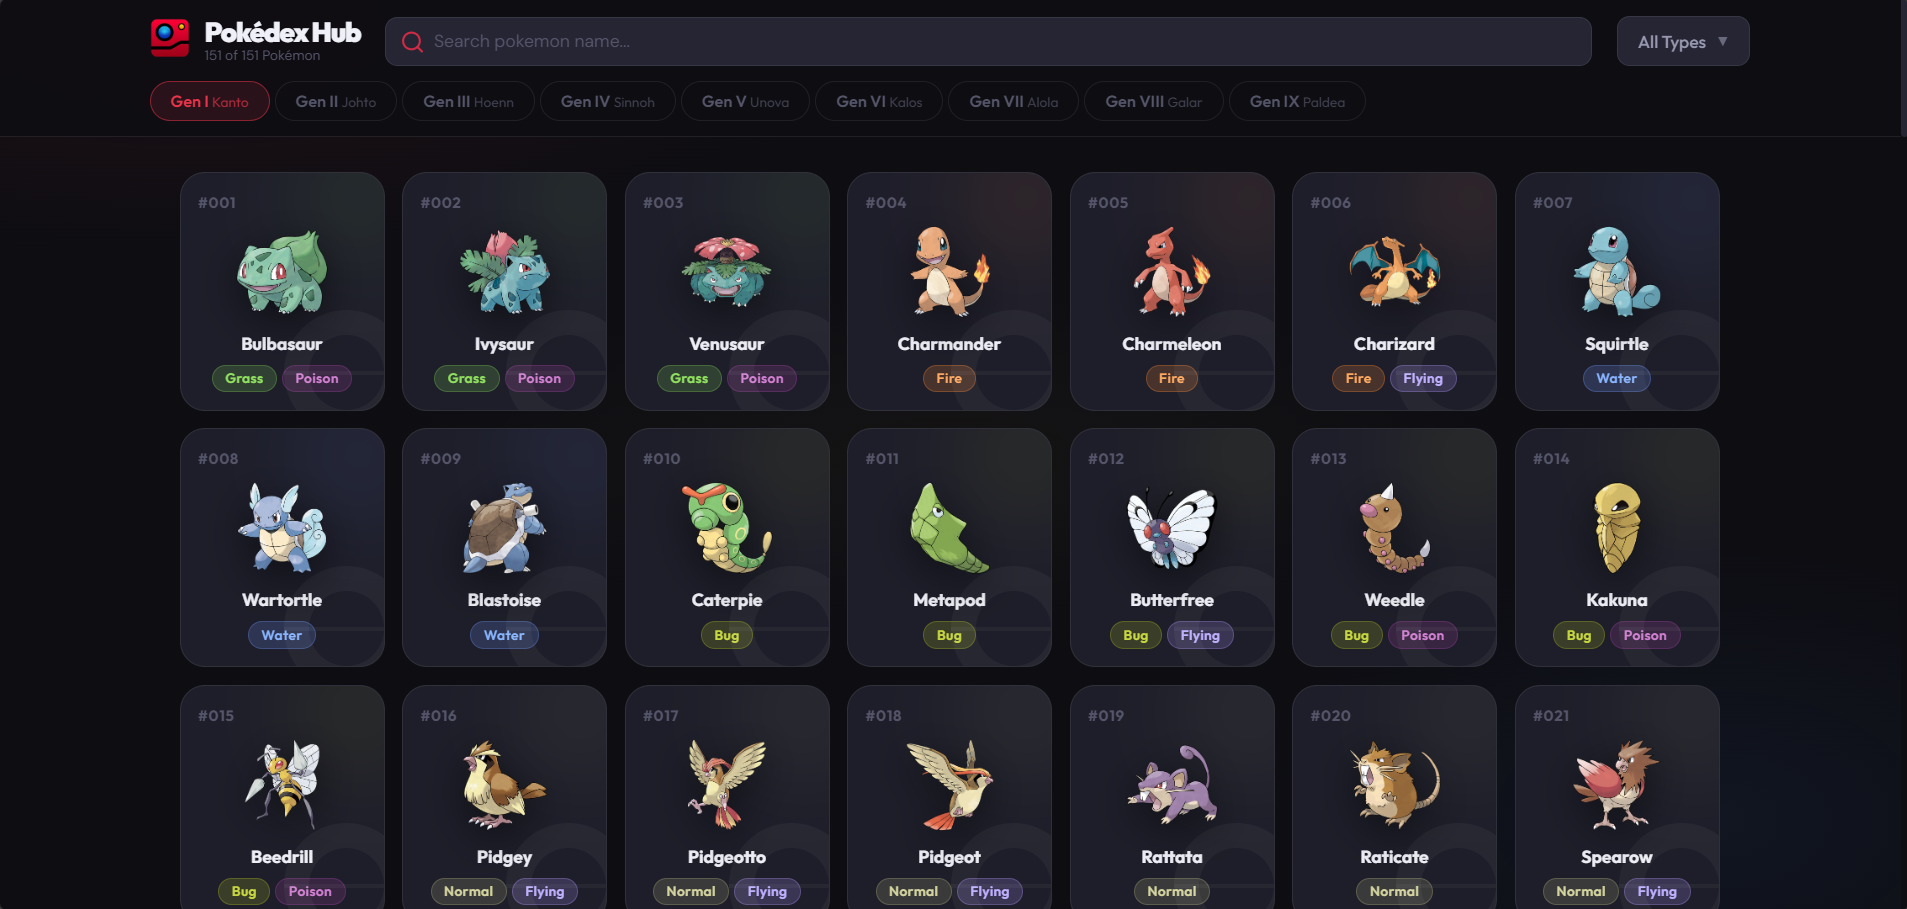
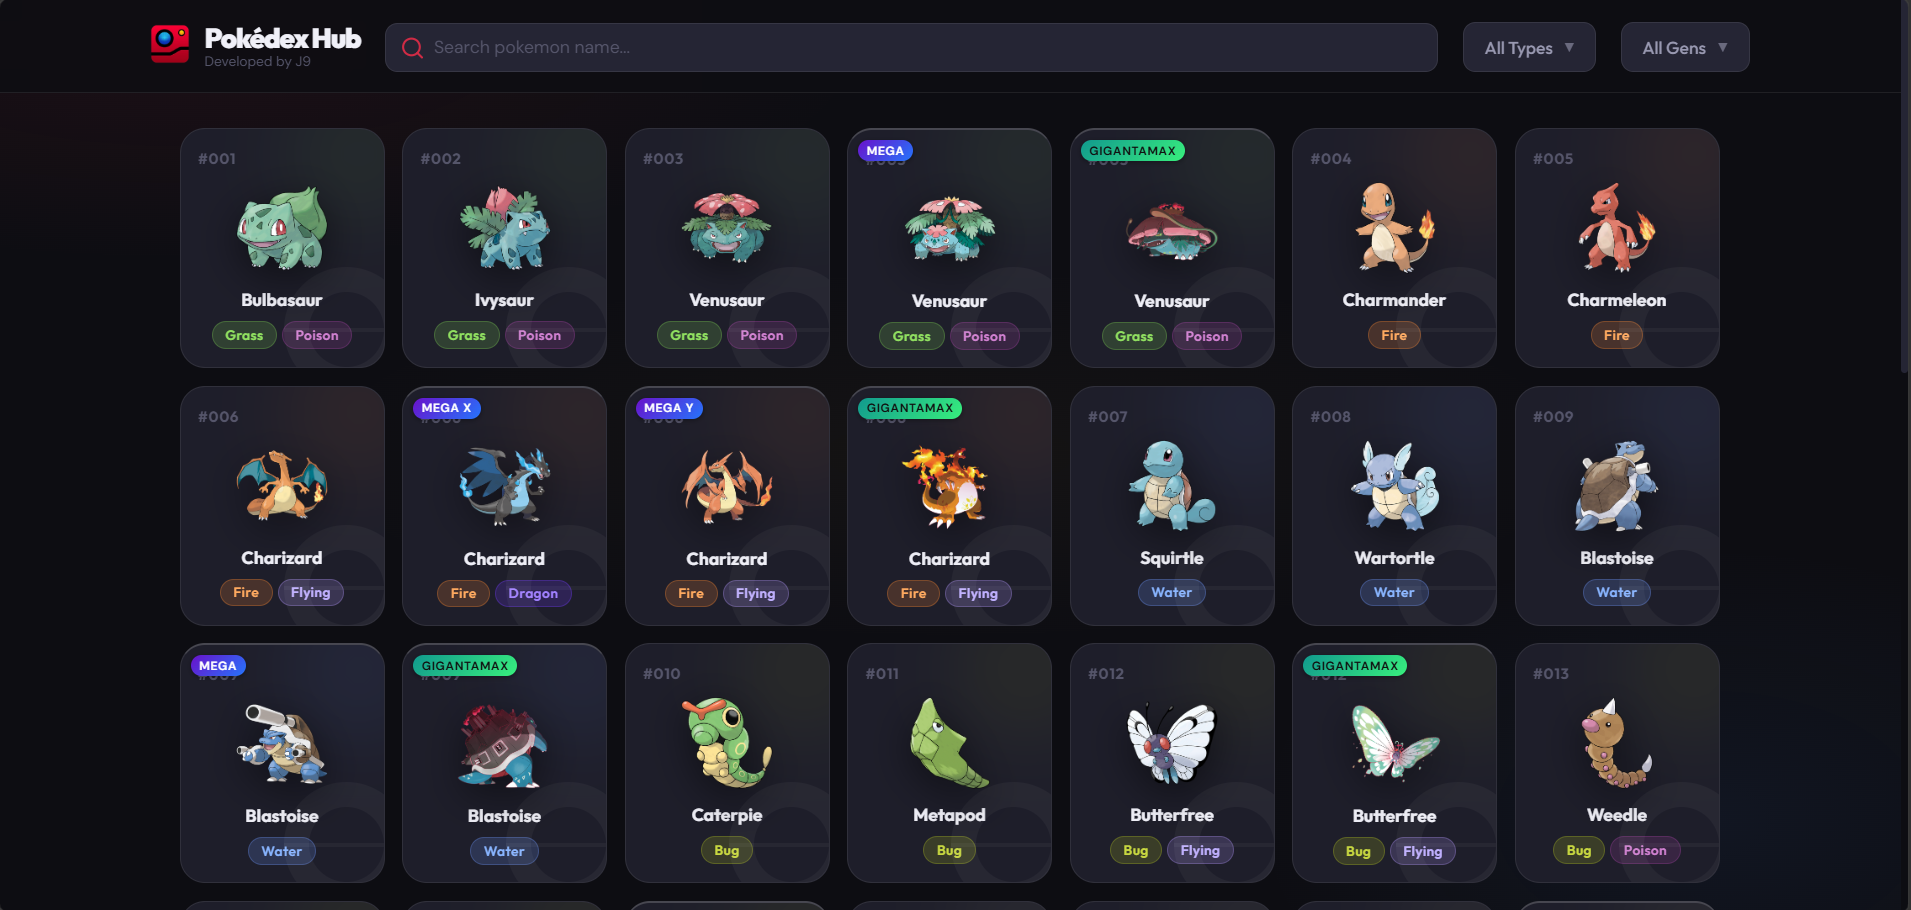
enh: updated Pokédex Hub img, description and FinanceVue category in data.ts

Changed region(s): [[0.0619, 0.0, 0.9282, 1.0], [0.99, 0.0, 1.0, 1.0], [0.0928, 0.154, 0.1238, 0.1848]]

diff --git a/src/lib/data.ts b/src/lib/data.ts
@@ -45,8 +45,8 @@ export const portfolio = {
       title: "Pokédex Hub",
       category: "Web Application",
       description:
-        "A responsive Pokédex web application built with Nuxt 3 and the PokéAPI. Features include generation filtering, real-time search, type-based filtering, and dynamic Pokémon detail modals with smooth navigation.",
-      tags: ["Nuxt", "TypeScript", "CSS", "PokeAPI", "Vercel"],
+        "A modern pokédex web application powered by PokéAPI, enabling users to explore 1,000+ Pokémon and their variants. Features dynamic search and filtering by type and generation, along with detailed views of stats, moves, evolution chains, and encounter locations. Designed with a focus on performance, scalability, and an intuitive user experience.",
+      tags: ["Nuxt", "TypeScript", "CSS", "PokéAPI", "Vercel"],
       year: "2026",
       image: PokedexHubImg,
       hasUrl: true,
@@ -58,7 +58,7 @@ export const portfolio = {
     {
       id: "03",
       title: "FinanceVue",
-      category: "Frontend Dashboard",
+      category: "Web Dashboard",
       description:
         "A corporate financial monitoring dashboard providing insights into key metrics, transaction activity, and performance tracking through data visualization.",
       tags: ["React", "Vite", "TypeScript"],
